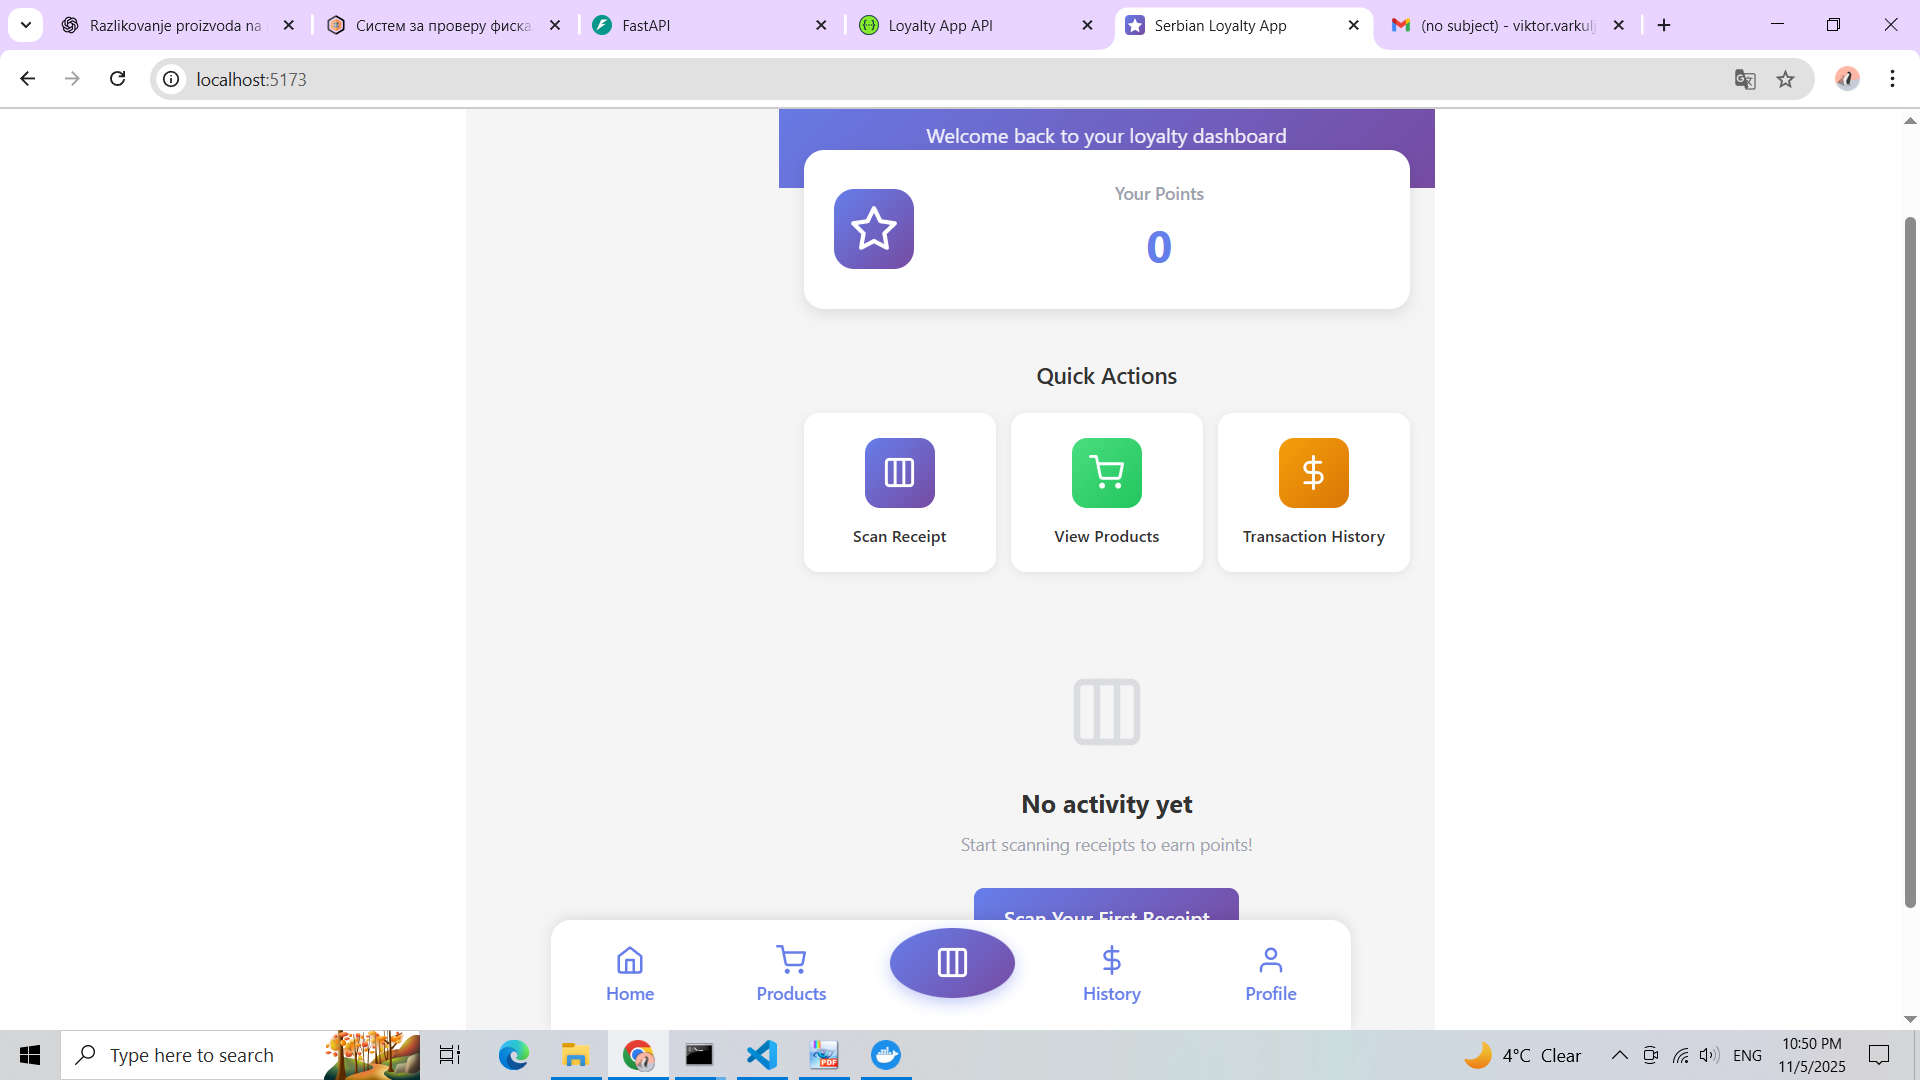
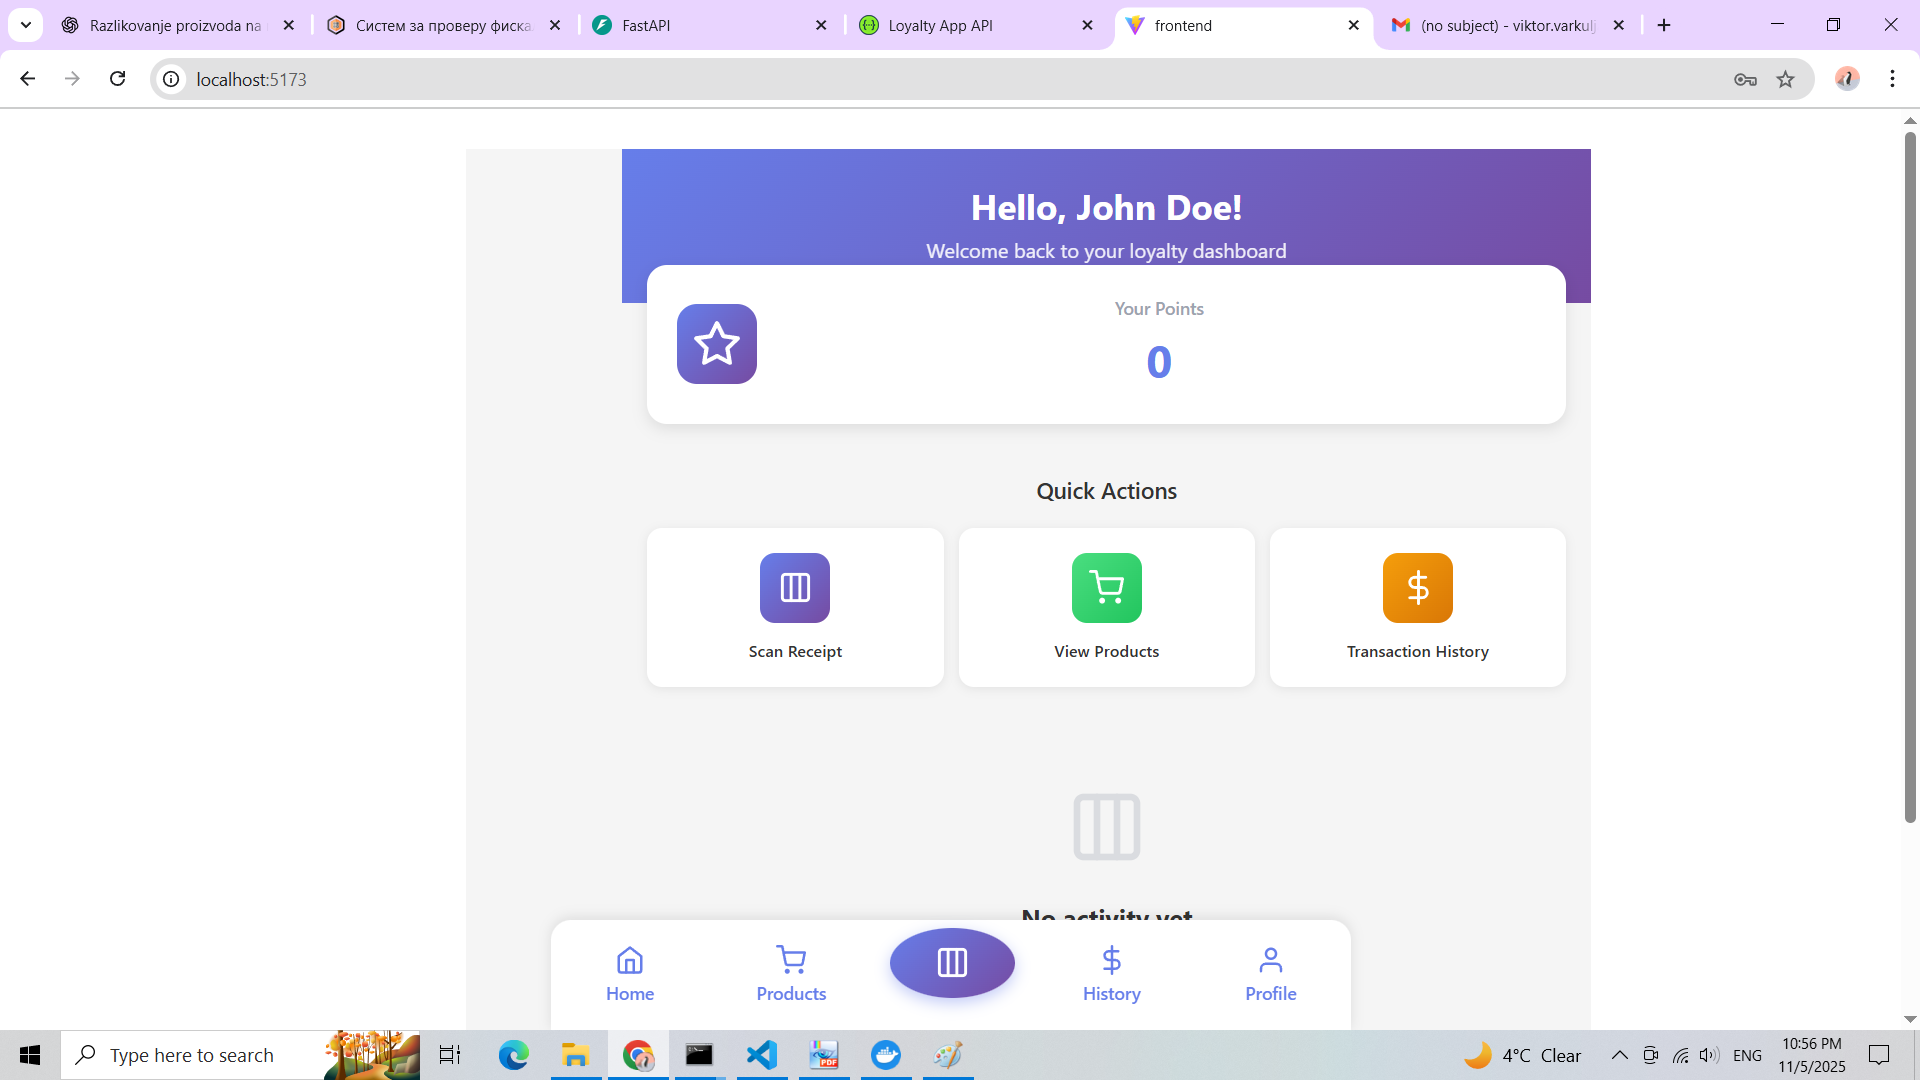
Revert to full-width layout for better mobile-first design
- Removed desktop centering that was causing layout issues
- App now uses full viewport width on all screen sizes
- Mobile-first approach maintained throughout
- Cleaner, more consistent layout across devices
- Fixes gray sidebar issue on desktop

🤖 Generated with [Claude Code](https://claude.com/claude-code)

diff --git a/frontend/src/components/MainLayout.vue b/frontend/src/components/MainLayout.vue
@@ -15,31 +15,10 @@ import BottomNav from './BottomNav.vue'
 .main-layout {
   min-height: 100vh;
   background-color: #f5f5f5;
-  display: flex;
-  flex-direction: column;
 }
 
 .main-content {
   padding-bottom: 80px; /* Space for bottom nav */
   min-height: 100vh;
-  width: 100%;
-}
-
-/* Desktop centering */
-@media (min-width: 768px) {
-  .main-layout {
-    align-items: center;
-  }
-
-  .main-content {
-    max-width: 768px;
-    width: 100%;
-  }
-}
-
-@media (min-width: 1024px) {
-  .main-content {
-    max-width: 900px;
-  }
 }
 </style>
